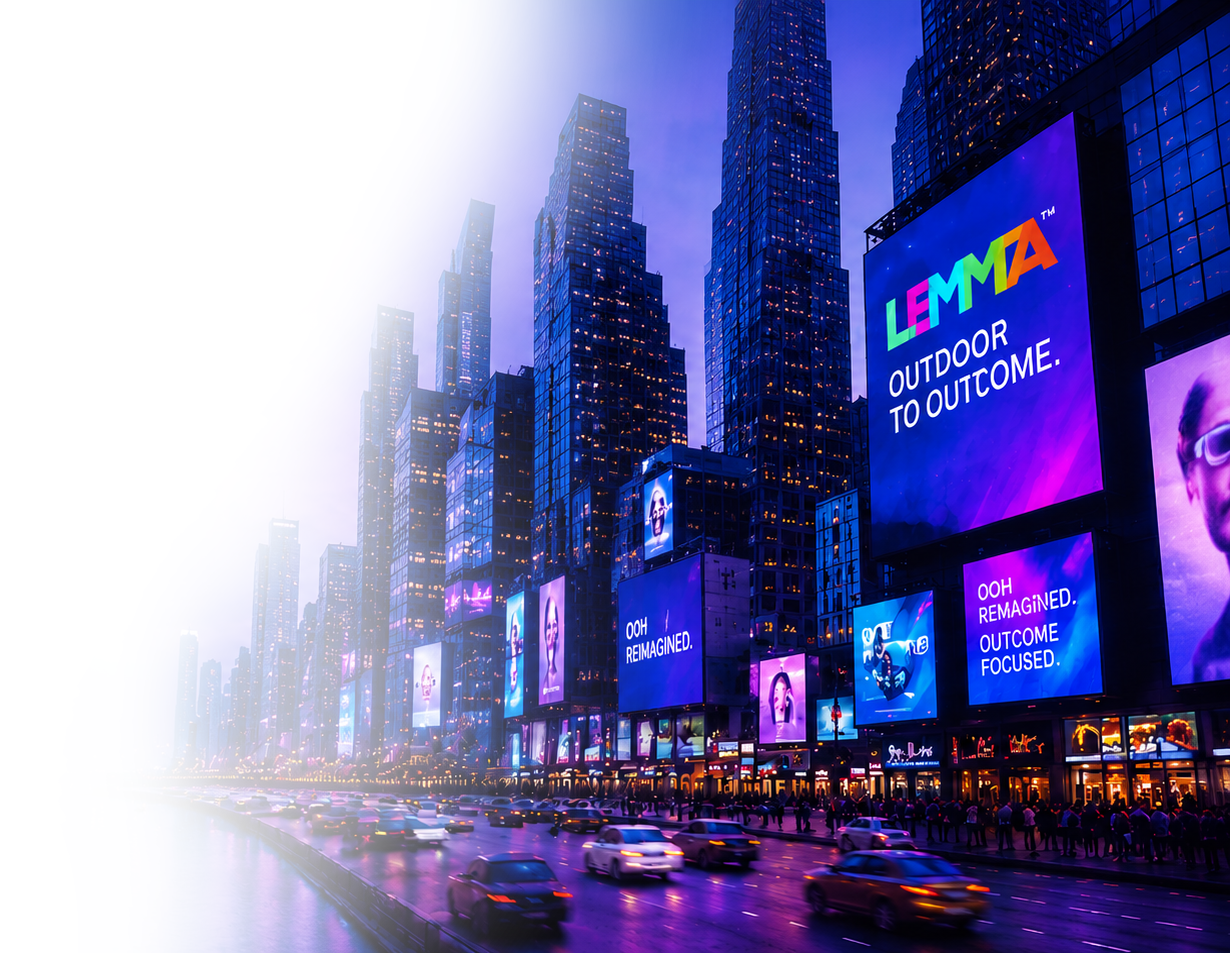
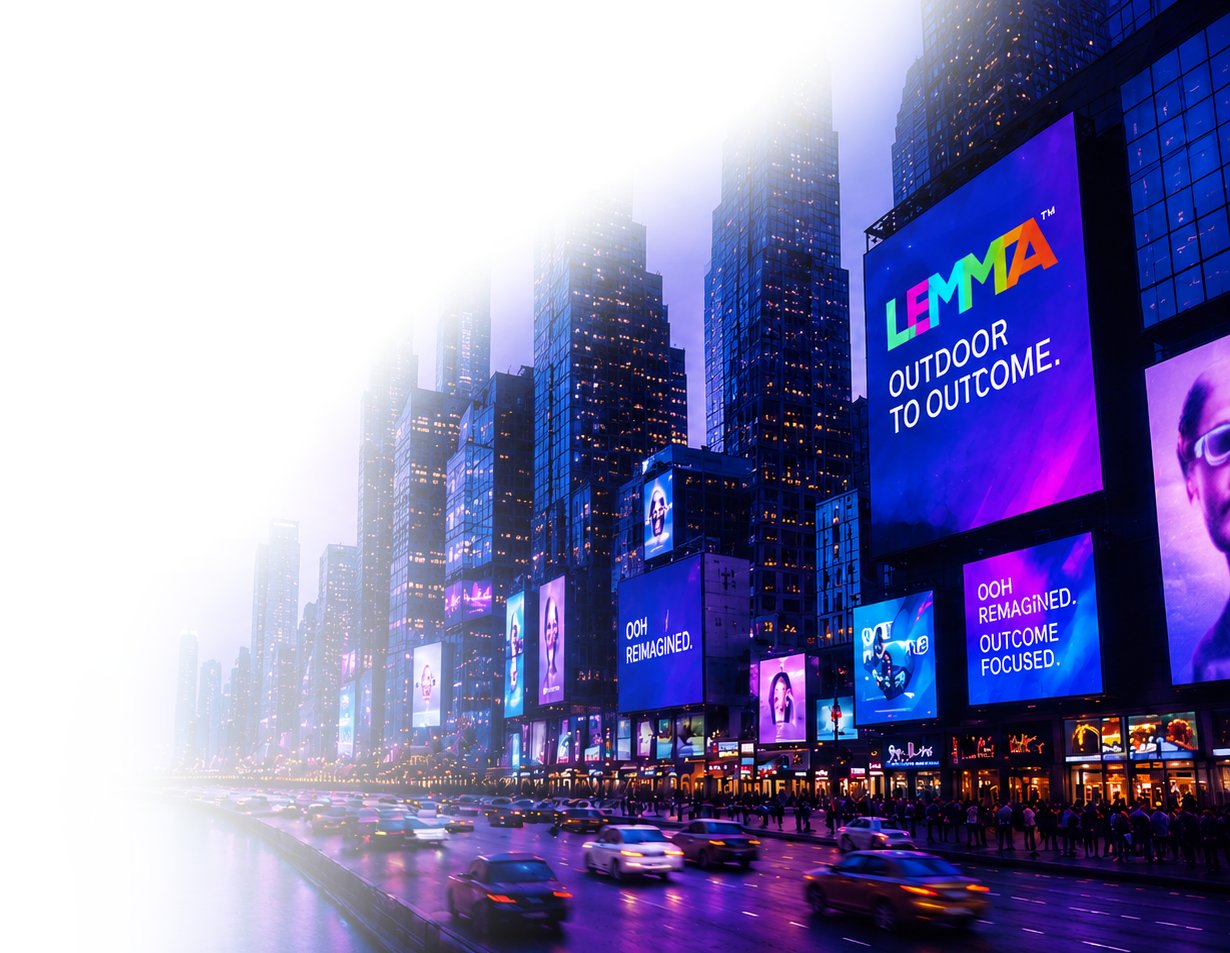
Modified the home page hero section and header section

Changed region(s): [[0.278, 0.0, 0.865, 0.4565]]

diff --git a/components/layout/Header.tsx b/components/layout/Header.tsx
@@ -15,6 +15,7 @@ export function Header() {
   const [mobileOpen, setMobileOpen] = useState(false);
   const [activeMega, setActiveMega] = useState<"who-we-are" | "what-we-do" | null>(null);
   const [mobileExpanded, setMobileExpanded] = useState<"who-we-are" | "what-we-do" | null>(null);
+  const [scrolled, setScrolled] = useState(false);
   const closeTimer = useRef<ReturnType<typeof setTimeout> | null>(null);
   const megaRegionId = useId();
 
@@ -55,9 +56,23 @@ export function Header() {
 
   useEffect(() => () => clearCloseTimer(), []);
 
+  useEffect(() => {
+    const onScroll = () => setScrolled(window.scrollY > 8);
+    onScroll();
+    window.addEventListener("scroll", onScroll, { passive: true });
+    return () => window.removeEventListener("scroll", onScroll);
+  }, []);
+
+  const solid = scrolled || activeMega !== null;
+
   return (
     <header
-      className="fixed inset-x-0 top-0 z-50 bg-white/95 shadow-[0px_4px_10px_rgba(0,0,0,0.08)] backdrop-blur-[10px] transition-all duration-300"
+      className={cn(
+        "fixed inset-x-0 top-0 z-50 transition-all duration-300",
+        solid
+          ? "bg-white/95 shadow-[0px_4px_10px_rgba(0,0,0,0.08)] backdrop-blur-[10px]"
+          : "bg-transparent shadow-none backdrop-blur-0",
+      )}
       onMouseLeave={scheduleCloseMega}
     >
       <Container className="relative flex h-[90px] items-center justify-between">

diff --git a/components/home/Hero.tsx b/components/home/Hero.tsx
@@ -60,7 +60,7 @@ export function Hero() {
       className="relative overflow-hidden pb-16 pt-[138px] md:pb-24 md:pt-[184px]"
     >
       <div className="absolute inset-0 bg-[image:var(--gradient-hero)]" />
-      <motion.div style={{ y: bgY }} className="pointer-events-none absolute inset-y-0 right-0 w-[70%]">
+      <motion.div style={{ y: bgY }} className="pointer-events-none absolute inset-y-0 right-0 w-[70%] opacity-80">
         <Image src="/images/hero-bg.png" alt="" fill className="object-cover object-left" priority />
       </motion.div>
       <div
